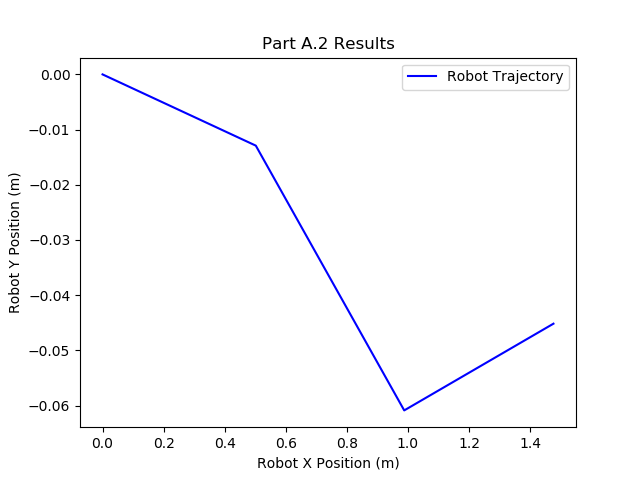
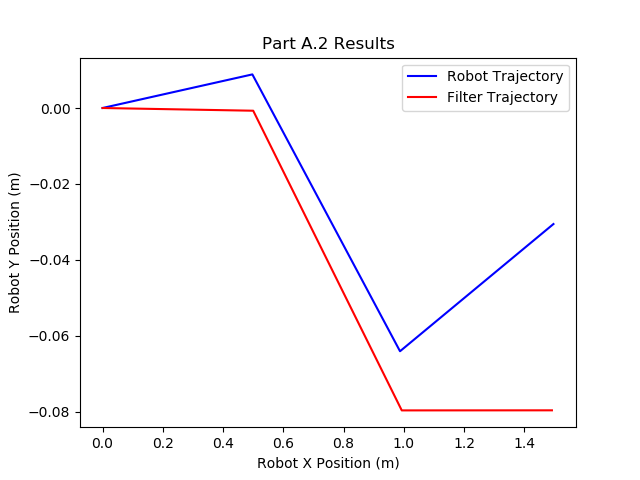
Pic UPdate

diff --git a/HW0/robot_library.py b/HW0/robot_library.py
@@ -84,9 +84,9 @@ class Robot:
         self.part_a2_path = []
         self.part_a3_path = []
         self.part_b7_path = []
+        self.part_b7_path_2 = []
         self.groundtruth_path = []
 
-        self.generate_particle_set()
         self.change_measurement_subject()
 
     def set_initial_pos(self, starting_point):
@@ -102,19 +102,22 @@ class Robot:
         self.new_pos = starting_point[:]
         self.cur_pos = starting_point[:]
 
-    def generate_particle_set(self):
+    def generate_particle_set(self, m_part, xy_var, th_var):
         """generate random particle set"""
 
         k = 0
+        self.M = m_part
+        self.X_set = []
+
         print "Generating particle set..."
 
         np.random.seed(40)
 
         while k <= self.M - 1:
             #x,y,theta, .003,.003,.05
-            self.X_set.append([np.random.normal(self.initial_pos[0], .003),
-                               np.random.normal(self.initial_pos[1], .003),
-                               np.random.normal(self.initial_pos[2], .05),
+            self.X_set.append([np.random.normal(self.initial_pos[0], xy_var),
+                               np.random.normal(self.initial_pos[1], xy_var),
+                               np.random.normal(self.initial_pos[2], th_var),
                                1/float(self.M),
                                self.last_id])
             k += 1
@@ -151,8 +154,8 @@ class Robot:
         # Create Noise array
         # std dev for x and y assumed to be .004m
         # std dev for theta assumed to be .05rad
-        trans_var = 0.000016
-        ang_var = 0.0025
+        trans_var = 0.1
+        ang_var = 0.5
 
         if noise_check == 1:
             epsilon = [np.random.normal(0, trans_var), np.random.normal(0, trans_var),
@@ -177,8 +180,6 @@ class Robot:
             vel[0] = -v_diff * np.sin(state[2]) + v_diff * np.sin(state[2] + movement_set[2] * movement_set[1])
             vel[1] = v_diff * np.cos(state[2]) - v_diff * np.cos(state[2] + movement_set[2] * movement_set[1])
             vel[2] = movement_set[1] * movement_set[2]
-
-
 
             for i in range(3):
                 self.new_pos[i] = state[i] + vel[i]
@@ -389,6 +390,9 @@ class Robot:
 
         self.set_initial_pos([self.groundtruth_data[0][1], self.groundtruth_data[0][2],
                               self.groundtruth_data[0][3]])
+
+        self.generate_particle_set(1000, 0.003, 0.05)
+
         last_meas = 0
         total_measurements = 0
         num_measurements = 0
@@ -518,6 +522,47 @@ class Robot:
         self.part_b7_path = self.motion_path[:]
         print "total measurements found: " + str(total_measurements)
 
+        ##PART 2 DATASET
+
+        self.set_initial_pos([0, 0, 0])
+
+        #Part A2 Data Set
+        movement_data = [[0.5, 0, 1], [0, -1/(2*np.pi), 1], [.5, 0, 1],
+                         [0, 1/(2*np.pi), 1], [.5, 0, 1]]
+
+        self.generate_particle_set(1000,.00001,.001)
+
+        for i, vel_data in enumerate(movement_data):
+
+            # propigate each particle based on control
+            for j in range(len(self.X_set)):
+
+                prop_part = [vel_data[0], vel_data[1], vel_data[2]]
+                self.make_move(prop_part, self.X_set[j], 1)
+
+                self.X_set[j][0] = self.new_pos[0]
+                self.X_set[j][1] = self.new_pos[1]
+                self.X_set[j][2] = self.new_pos[2]
+                self.X_set[j][3] = 1 / float(self.M)
+
+            mean_x = 0
+            mean_y = 0
+            mean_th = 0
+
+            #Get mean weighted average for the plotting points
+            for _t, avg in enumerate(self.X_set):
+                mean_x = mean_x + avg[0] * avg[3]
+                mean_y = mean_y + avg[1] * avg[3]
+                mean_th = mean_th + avg[2] * avg[3]
+
+            #print mean_x, mean_y, mean_th
+            self.new_pos = [mean_x, mean_y, mean_th]
+            self.cur_pos = [mean_x, mean_y, mean_th]
+
+            self.append_path()
+
+        self.part_b7_path_2 = self.motion_path
+
     def create_plots(self):
         """
         Create Plots for Report
@@ -619,6 +664,23 @@ class Robot:
         plt.xlabel('World X Position (m)')
         plt.ylabel('World Y Position (m)')
         plt.title('Filter Performance Comparison')
+        plt.autoscale(True)
+
+        #7b Full on Pt2 data
+        plt.figure()
+
+        x_arr, y_arr, _t_arr = map(list, zip(*self.part_a2_path))
+
+        plt.plot(x_arr, y_arr, 'b')
+
+        x_arr, y_arr, _t_arr = map(list, zip(*self.part_b7_path_2))
+
+        plt.plot(x_arr, y_arr, 'r')
+
+        plt.title('Part A.2 Results')
+        plt.xlabel('Robot X Position (m)')
+        plt.ylabel('Robot Y Position (m)')
+        plt.legend(['Robot Trajectory', 'Filter Trajectory'])
         plt.autoscale(True)
 
         plt.show()
